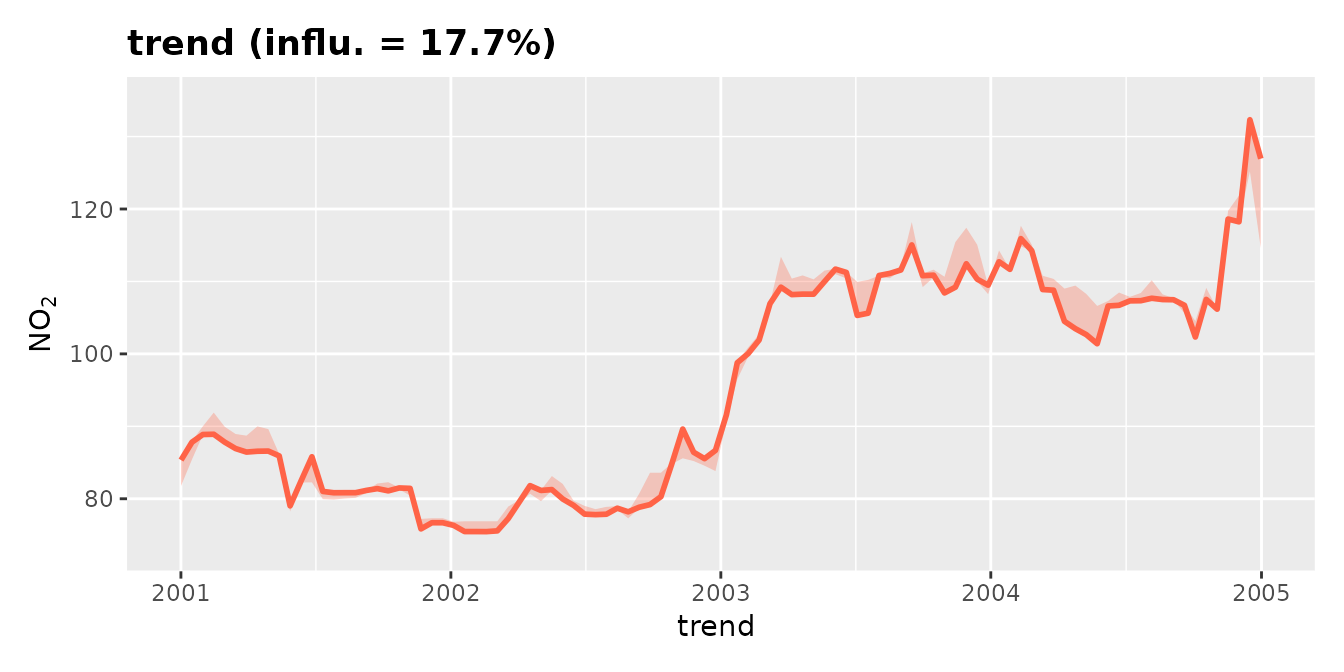
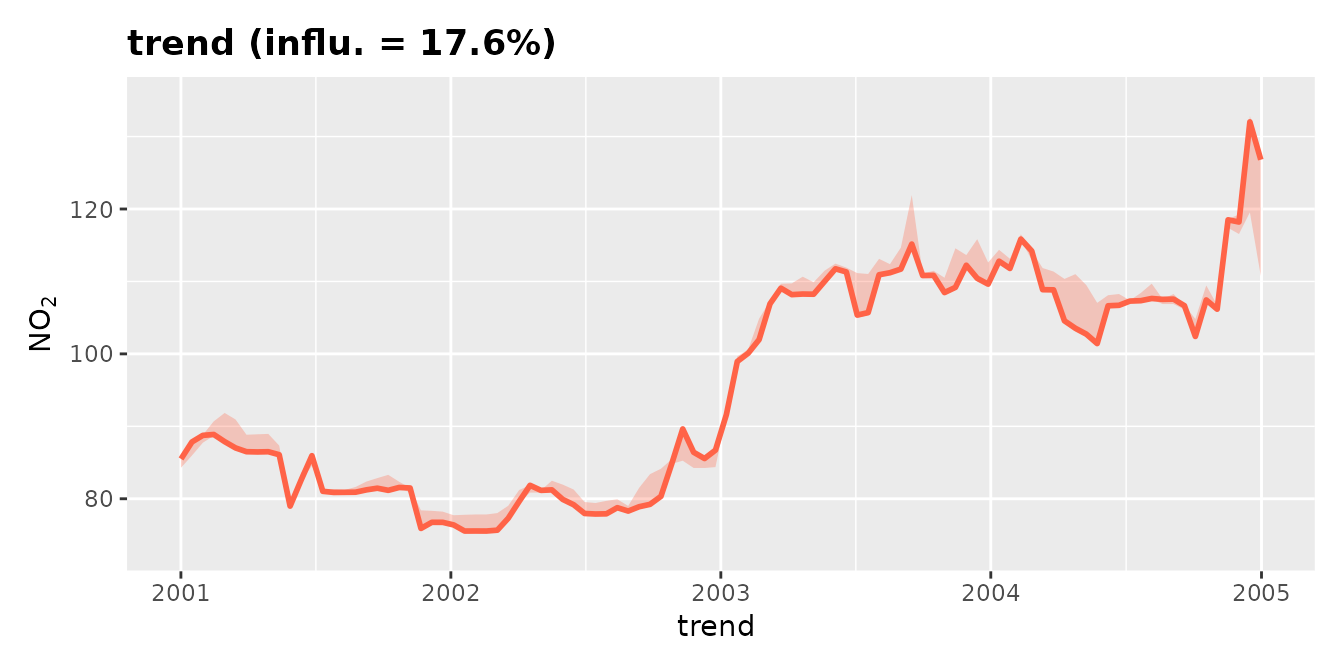
Deploying to gh-pages from @ davidcarslaw/deweather@242e4a333d1ca2b27b818efd4e9ea33ebdd19bec 🚀

diff --git a/articles/deweather.html b/articles/deweather.html
@@ -26,7 +26,7 @@
 
     <a class="navbar-brand me-2" href="../index.html">deweather</a>
 
-    <small class="nav-text text-muted me-auto" data-bs-toggle="tooltip" data-bs-placement="bottom" title="">0.7.2.9103</small>
+    <small class="nav-text text-muted me-auto" data-bs-toggle="tooltip" data-bs-placement="bottom" title="">0.7.2.9104</small>
 
 
     <button class="navbar-toggler" type="button" data-bs-toggle="collapse" data-bs-target="#navbar" aria-controls="navbar" aria-expanded="false" aria-label="Toggle navigation">
@@ -129,7 +129,11 @@ models to help derive the most appropriate.</p>
 that variables such as <code>"hour"</code> and <code>"weekday"</code>
 are used as variables that can be used to explain some of the variation.
 <code>"hour"</code> for example very usefully acts as a proxy for the
-diurnal variation in emissions.</p>
+diurnal variation in emissions. These temporal emission proxies are also
+important to include to help the model differentiate between emission
+versus weather-related changes. For example, emissions tend to change
+throughout a day and so do variables such as wind speed and ambient
+temperature.</p>
 <div class="sourceCode" id="cb3"><pre class="downlit sourceCode r">
 <code class="sourceCode R"><span><span class="kw"><a href="https://rdrr.io/r/base/library.html" class="external-link">library</a></span><span class="op">(</span><span class="va"><a href="https://davidcarslaw.github.io/openair/" class="external-link">openair</a></span><span class="op">)</span></span>
 <span><span class="co"># select only part of the data set</span></span>
@@ -220,9 +224,9 @@ and air temperature
 <div class="section level2">
 <h2 id="apply-meteorological-averaging">Apply meteorological averaging<a class="anchor" aria-label="anchor" href="#apply-meteorological-averaging"></a>
 </h2>
-<p>An indication of the meteorologically-averaged trend is given by the
-<code><a href="../reference/plotPD.html">plotPD()</a></code> function above, and can even be isolated using the
-<code>variable</code> argument.</p>
+<p>An <em>indication</em> of the meteorologically-averaged trend is
+given by the <code><a href="../reference/plotPD.html">plotPD()</a></code> function above, and can even be
+isolated using the <code>variable</code> argument.</p>
 <div class="sourceCode" id="cb7"><pre class="downlit sourceCode r">
 <code class="sourceCode R"><span><span class="fu"><a href="../reference/plotPD.html">plotPD</a></span><span class="op">(</span><span class="va">mod_no2</span>, variable <span class="op">=</span> <span class="st">"trend"</span><span class="op">)</span></span></code></pre></div>
 <div class="figure">
@@ -230,15 +234,16 @@ and air temperature
 The partial dependence plot of the ‘trend’ component.
 </p>
 </div>
-<p>A better indication is given by using the model to predict many times
-with random sampling of meteorological conditions. This sampling is
-carried out by the <code><a href="../reference/metSim.html">metSim()</a></code> function. Note that in this
-case there is no need to supply the <code>"trend"</code> component
-because it is calculated using <code><a href="../reference/metSim.html">metSim()</a></code>.</p>
+<p>A much better indication is given by using the model to predict many
+times with random sampling of <strong>meteorological</strong>
+conditions. This sampling is carried out by the <code><a href="../reference/metSim.html">metSim()</a></code>
+function. Note that in this case there is no need to supply the
+<code>"trend"</code> component because it is calculated using
+<code><a href="../reference/metSim.html">metSim()</a></code>.</p>
 <div class="sourceCode" id="cb8"><pre class="downlit sourceCode r">
 <code class="sourceCode R"><span><span class="va">demet</span> <span class="op">&lt;-</span> <span class="fu"><a href="../reference/metSim.html">metSim</a></span><span class="op">(</span><span class="va">mod_no2</span>,</span>
 <span>  newdata <span class="op">=</span> <span class="va">dat_part</span>,</span>
-<span>  metVars <span class="op">=</span> <span class="fu"><a href="https://rdrr.io/r/base/c.html" class="external-link">c</a></span><span class="op">(</span><span class="st">"ws"</span>, <span class="st">"wd"</span>, <span class="st">"hour"</span>, <span class="st">"weekday"</span>, <span class="st">"air_temp"</span>, <span class="st">"week"</span><span class="op">)</span></span>
+<span>  metVars <span class="op">=</span> <span class="fu"><a href="https://rdrr.io/r/base/c.html" class="external-link">c</a></span><span class="op">(</span><span class="st">"ws"</span>, <span class="st">"wd"</span>, <span class="st">"air_temp"</span><span class="op">)</span></span>
 <span><span class="op">)</span></span></code></pre></div>
 <p>Now it is possible to plot the resulting trend.</p>
 <div class="sourceCode" id="cb9"><pre class="downlit sourceCode r">
@@ -248,11 +253,13 @@ because it is calculated using <code><a href="../reference/metSim.html">metSim()
 A deweathered nitrogen dioxide trend.
 </p>
 </div>
-<p>The plot is rather noisy due to relatively few samples of meteorology
-being considered (200 by default, set with <code>B = 200</code>). The
-noise could be reduced by increasing the simulations, but this would add
-to run time. Alternatively, it can be useful to simply average the
-results. For example:</p>
+<p>The plot shows the trend in NO<sub>2</sub> controlling for the main
+weather variables. The plot now reveals the strong diurnal and weekly
+cycle in NO<sub>2</sub> that is driven by variations in the sources of
+NO<sub>2</sub> (NO<sub>x</sub>) rather than meteorology i.e. road
+traffic which has strong hourly and daily variations throughout the
+year. It can be useful to simply average the results to provide a better
+indication of the overall trend. For example:</p>
 <div class="sourceCode" id="cb10"><pre class="downlit sourceCode r">
 <code class="sourceCode R"><span><span class="fu">openair</span><span class="fu">::</span><span class="fu"><a href="https://davidcarslaw.github.io/openair/reference/timePlot.html" class="external-link">timePlot</a></span><span class="op">(</span><span class="va">demet</span>, <span class="st">"no2"</span>, avg.time <span class="op">=</span> <span class="st">"week"</span>, ylab <span class="op">=</span> <span class="st">"Deweathered no2 (ug/m3)"</span><span class="op">)</span></span></code></pre></div>
 <div class="figure">

diff --git a/authors.html b/authors.html
@@ -7,7 +7,7 @@
 
     <a class="navbar-brand me-2" href="index.html">deweather</a>
 
-    <small class="nav-text text-muted me-auto" data-bs-toggle="tooltip" data-bs-placement="bottom" title="">0.7.2.9103</small>
+    <small class="nav-text text-muted me-auto" data-bs-toggle="tooltip" data-bs-placement="bottom" title="">0.7.2.9104</small>
 
 
     <button class="navbar-toggler" type="button" data-bs-toggle="collapse" data-bs-target="#navbar" aria-controls="navbar" aria-expanded="false" aria-label="Toggle navigation">
@@ -53,14 +53,14 @@
 
       <p>Carslaw D (2024).
 <em>deweather: Remove the influence of weather on air quality data</em>.
-R package version 0.7.2.9103,
+R package version 0.7.2.9104,
 https://github.com/davidcarslaw/deweather, <a href="https://davidcarslaw.github.io/deweather/">https://davidcarslaw.github.io/deweather/</a>.
 </p>
       <pre>@Manual{,
   title = {deweather: Remove the influence of weather on air quality data},
   author = {David Carslaw},
   year = {2024},
-  note = {R package version 0.7.2.9103,
+  note = {R package version 0.7.2.9104,
     https://github.com/davidcarslaw/deweather},
   url = {https://davidcarslaw.github.io/deweather/},
 }</pre>

diff --git a/reference/metSim.html b/reference/metSim.html
@@ -7,7 +7,7 @@
 
     <a class="navbar-brand me-2" href="../index.html">deweather</a>
 
-    <small class="nav-text text-muted me-auto" data-bs-toggle="tooltip" data-bs-placement="bottom" title="">0.7.2.9103</small>
+    <small class="nav-text text-muted me-auto" data-bs-toggle="tooltip" data-bs-placement="bottom" title="">0.7.2.9104</small>
 
 
     <button class="navbar-toggler" type="button" data-bs-toggle="collapse" data-bs-target="#navbar" aria-controls="navbar" aria-expanded="false" aria-label="Toggle navigation">
@@ -69,7 +69,9 @@ to build the model in the first place will be used.</p></dd>
 
 
 <dt id="arg-metvars">metVars<a class="anchor" aria-label="anchor" href="#arg-metvars"></a></dt>
-<dd><p>The variables that should be randomly varied.</p></dd>
+<dd><p>The variables that should be randomly varied. Note that these
+should typically be meteorological variables and not temporal emission
+proxies such as "hour", "weekday" or "week".</p></dd>
 
 
 <dt id="arg-n-core">n.core<a class="anchor" aria-label="anchor" href="#arg-n-core"></a></dt>

diff --git a/reference/diurnalGbm.html b/reference/diurnalGbm.html
@@ -13,7 +13,7 @@ intervention."><meta property="og:image" content="https://davidcarslaw.github.io
 
     <a class="navbar-brand me-2" href="../index.html">deweather</a>
 
-    <small class="nav-text text-muted me-auto" data-bs-toggle="tooltip" data-bs-placement="bottom" title="">0.7.2.9103</small>
+    <small class="nav-text text-muted me-auto" data-bs-toggle="tooltip" data-bs-placement="bottom" title="">0.7.2.9104</small>
 
 
     <button class="navbar-toggler" type="button" data-bs-toggle="collapse" data-bs-target="#navbar" aria-controls="navbar" aria-expanded="false" aria-label="Toggle navigation">

diff --git a/reference/road_data.html b/reference/road_data.html
@@ -15,7 +15,7 @@ and 23rd June 2005."><meta property="og:image" content="https://davidcarslaw.git
 
     <a class="navbar-brand me-2" href="../index.html">deweather</a>
 
-    <small class="nav-text text-muted me-auto" data-bs-toggle="tooltip" data-bs-placement="bottom" title="">0.7.2.9103</small>
+    <small class="nav-text text-muted me-auto" data-bs-toggle="tooltip" data-bs-placement="bottom" title="">0.7.2.9104</small>
 
 
     <button class="navbar-toggler" type="button" data-bs-toggle="collapse" data-bs-target="#navbar" aria-controls="navbar" aria-expanded="false" aria-label="Toggle navigation">

diff --git a/reference/deweather-package.html b/reference/deweather-package.html
@@ -9,7 +9,7 @@ Model and account for (or remove) the effect of meteorology on atmospheric compo
 
     <a class="navbar-brand me-2" href="../index.html">deweather</a>
 
-    <small class="nav-text text-muted me-auto" data-bs-toggle="tooltip" data-bs-placement="bottom" title="">0.7.2.9103</small>
+    <small class="nav-text text-muted me-auto" data-bs-toggle="tooltip" data-bs-placement="bottom" title="">0.7.2.9104</small>
 
 
     <button class="navbar-toggler" type="button" data-bs-toggle="collapse" data-bs-target="#navbar" aria-controls="navbar" aria-expanded="false" aria-label="Toggle navigation">

diff --git a/404.html b/404.html
@@ -27,7 +27,7 @@
 
     <a class="navbar-brand me-2" href="https://davidcarslaw.github.io/deweather/index.html">deweather</a>
 
-    <small class="nav-text text-muted me-auto" data-bs-toggle="tooltip" data-bs-placement="bottom" title="">0.7.2.9103</small>
+    <small class="nav-text text-muted me-auto" data-bs-toggle="tooltip" data-bs-placement="bottom" title="">0.7.2.9104</small>
 
 
     <button class="navbar-toggler" type="button" data-bs-toggle="collapse" data-bs-target="#navbar" aria-controls="navbar" aria-expanded="false" aria-label="Toggle navigation">

diff --git a/reference/prepData.html b/reference/prepData.html
@@ -41,7 +41,7 @@ seasonal variations.
 
     <a class="navbar-brand me-2" href="../index.html">deweather</a>
 
-    <small class="nav-text text-muted me-auto" data-bs-toggle="tooltip" data-bs-placement="bottom" title="">0.7.2.9103</small>
+    <small class="nav-text text-muted me-auto" data-bs-toggle="tooltip" data-bs-placement="bottom" title="">0.7.2.9104</small>
 
 
     <button class="navbar-toggler" type="button" data-bs-toggle="collapse" data-bs-target="#navbar" aria-controls="navbar" aria-expanded="false" aria-label="Toggle navigation">

diff --git a/articles/index.html b/articles/index.html
@@ -7,7 +7,7 @@
 
     <a class="navbar-brand me-2" href="../index.html">deweather</a>
 
-    <small class="nav-text text-muted me-auto" data-bs-toggle="tooltip" data-bs-placement="bottom" title="">0.7.2.9103</small>
+    <small class="nav-text text-muted me-auto" data-bs-toggle="tooltip" data-bs-placement="bottom" title="">0.7.2.9104</small>
 
 
     <button class="navbar-toggler" type="button" data-bs-toggle="collapse" data-bs-target="#navbar" aria-controls="navbar" aria-expanded="false" aria-label="Toggle navigation">

diff --git a/news/index.html b/news/index.html
@@ -7,7 +7,7 @@
 
     <a class="navbar-brand me-2" href="../index.html">deweather</a>
 
-    <small class="nav-text text-muted me-auto" data-bs-toggle="tooltip" data-bs-placement="bottom" title="">0.7.2.9103</small>
+    <small class="nav-text text-muted me-auto" data-bs-toggle="tooltip" data-bs-placement="bottom" title="">0.7.2.9104</small>
 
 
     <button class="navbar-toggler" type="button" data-bs-toggle="collapse" data-bs-target="#navbar" aria-controls="navbar" aria-expanded="false" aria-label="Toggle navigation">

diff --git a/reference/buildMod.html b/reference/buildMod.html
@@ -7,7 +7,7 @@
 
     <a class="navbar-brand me-2" href="../index.html">deweather</a>
 
-    <small class="nav-text text-muted me-auto" data-bs-toggle="tooltip" data-bs-placement="bottom" title="">0.7.2.9103</small>
+    <small class="nav-text text-muted me-auto" data-bs-toggle="tooltip" data-bs-placement="bottom" title="">0.7.2.9104</small>
 
 
     <button class="navbar-toggler" type="button" data-bs-toggle="collapse" data-bs-target="#navbar" aria-controls="navbar" aria-expanded="false" aria-label="Toggle navigation">

diff --git a/reference/gbmInteractions.html b/reference/gbmInteractions.html
@@ -7,7 +7,7 @@
 
     <a class="navbar-brand me-2" href="../index.html">deweather</a>
 
-    <small class="nav-text text-muted me-auto" data-bs-toggle="tooltip" data-bs-placement="bottom" title="">0.7.2.9103</small>
+    <small class="nav-text text-muted me-auto" data-bs-toggle="tooltip" data-bs-placement="bottom" title="">0.7.2.9104</small>
 
 
     <button class="navbar-toggler" type="button" data-bs-toggle="collapse" data-bs-target="#navbar" aria-controls="navbar" aria-expanded="false" aria-label="Toggle navigation">
